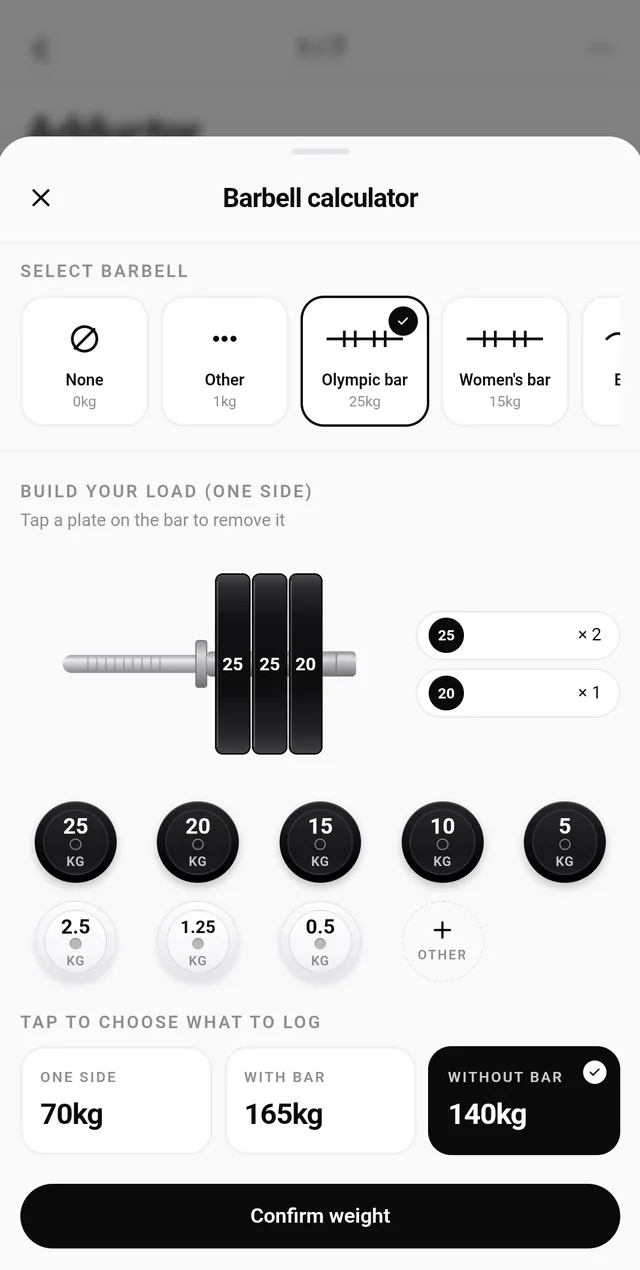
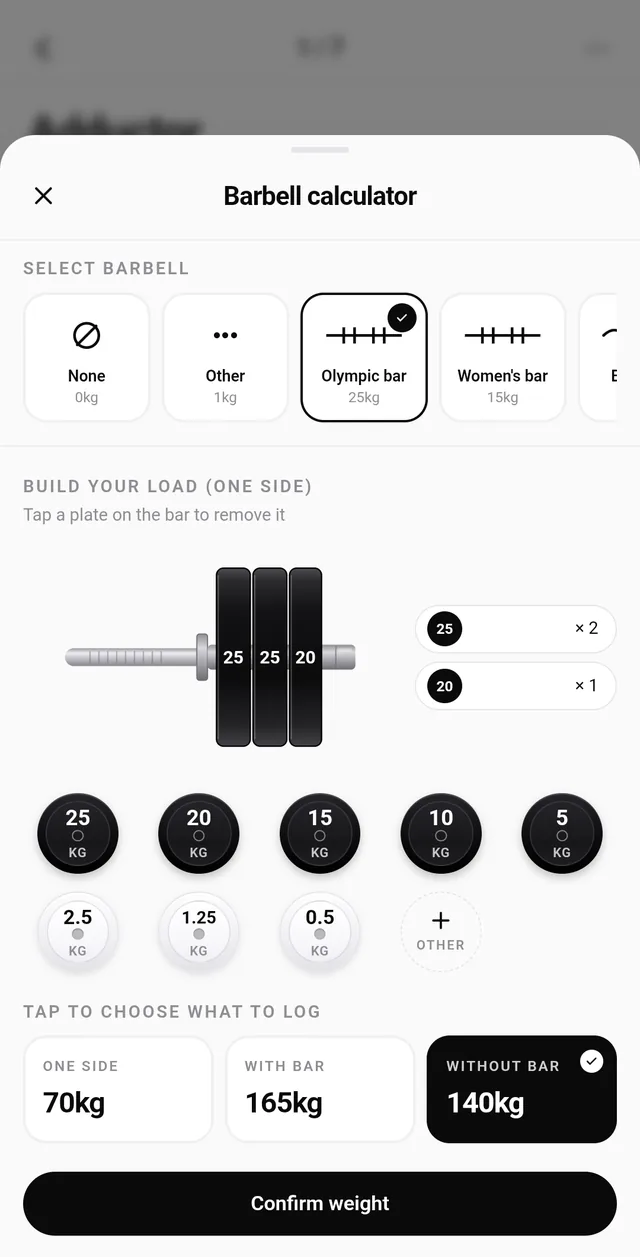
Reps reels: Pixel 10 Pro XL frame, screens shown in full
The iPhone frame's 19.5:9 screen cropped the bottom of every Pixel
screenshot, so tab bars and buttons were cut off. The CSS phone is now a
Pixel 10 Pro XL: 20:9 screen, punch-hole camera, gesture bar. Every
screen is re-cut at full height (1:1.965, nothing trimmed) and the
status and gesture bars take the screen's top and bottom colours, so a
dark hero over a light list reads right.

Claude-Session: https://claude.ai/code/session_01GgzNiRW7Ja5QXosiiVnhfS

diff --git a/.eleventy.js b/.eleventy.js
@@ -132,31 +132,36 @@ module.exports = function (eleventyConfig) {
 </section>`;
   });
 
-  // A phone in a reel. The frame, status bar and dynamic island are CSS, so
-  // the image is just the screen (cut at 1:1.985, under the status bar).
-  // Pass the screen's top colour as bg so the status bar matches it.
+  // A phone in a reel (a Pixel 10 Pro XL). The frame, status bar, camera and
+  // gesture bar are CSS, so the image is just the screen content: a 1080×2404
+  // Pixel screenshot with its own bars cropped off (1:1.965). Pass the
+  // screen's top colour as bg and, if different, its bottom colour as
+  // bottomBg so the status and gesture bars match.
   const phoneStatusGlyphs = `<svg viewBox="0 0 60 12" fill="currentColor" aria-hidden="true"><rect x="0" y="8" width="3" height="4" rx=".7"/><rect x="4.5" y="6" width="3" height="6" rx=".7"/><rect x="9" y="3.5" width="3" height="8.5" rx=".7"/><rect x="13.5" y="1" width="3" height="11" rx=".7"/><path d="M24 4.6a9 9 0 0 1 12 0l-1.5 1.7a6.8 6.8 0 0 0-9 0z"/><path d="M26.7 7.4a5.2 5.2 0 0 1 6.6 0L30 11z"/><rect x="42" y="1.5" width="15" height="9" rx="2.5" fill="none" stroke="currentColor" stroke-opacity=".45"/><rect x="43.5" y="3" width="12" height="6" rx="1.5"/><rect x="58.2" y="4.3" width="1.3" height="3.4" rx=".6" opacity=".45"/></svg>`;
-  // Status bar colours: the screen's top colour as background, white text on
-  // a dark one so "9:41" stays readable.
-  const phoneStyle = (bg) => {
-    if (!bg) return "";
-    const m = /^#([0-9a-f]{6})$/i.exec(bg.trim());
-    let dark = false;
-    if (m) {
-      const n = parseInt(m[1], 16);
-      const lum = (0.2126 * (n >> 16) + 0.7152 * ((n >> 8) & 255) + 0.0722 * (n & 255)) / 255;
-      dark = lum < 0.45;
-    }
-    return ` style="--sbg:${bg}${dark ? ";--sfg:#fff" : ""}"`;
+  // Status bar and gesture bar colours: the screen's top colour behind the
+  // status bar, its bottom colour behind the gesture bar, white text on dark.
+  const isDark = (hex) => {
+    const m = /^#([0-9a-f]{6})$/i.exec((hex || "").trim());
+    if (!m) return false;
+    const n = parseInt(m[1], 16);
+    return (0.2126 * (n >> 16) + 0.7152 * ((n >> 8) & 255) + 0.0722 * (n & 255)) / 255 < 0.45;
   };
-  eleventyConfig.addShortcode("reel_phone", function (src, alt, caption, bg) {
-    const style = phoneStyle(bg);
+  const phoneStyle = (bg, bottomBg) => {
+    const parts = [];
+    if (bg) { parts.push(`--sbg:${bg}`); if (isDark(bg)) parts.push("--sfg:#fff"); }
+    const nbg = bottomBg || bg;
+    if (nbg) { parts.push(`--nbg:${nbg}`); if (isDark(nbg)) parts.push("--nfg:#fff"); }
+    return parts.length ? ` style="${parts.join(";")}"` : "";
+  };
+  eleventyConfig.addShortcode("reel_phone", function (src, alt, caption, bg, bottomBg) {
+    const style = phoneStyle(bg, bottomBg);
     const cap = caption ? `\n  <figcaption class="reel__cap">${caption}</figcaption>` : "";
     return `<figure class="reel__item">
   <div class="phone"${style}>
     <div class="phone__screen">
-      <div class="phone__status" aria-hidden="true"><span>9:41</span><i class="phone__island"></i>${phoneStatusGlyphs}</div>
+      <div class="phone__status" aria-hidden="true"><span>9:41</span><i class="phone__cam"></i>${phoneStatusGlyphs}</div>
       <img src="${src}" alt="${alt}" loading="lazy" draggable="false" />
+      <i class="phone__nav" aria-hidden="true"></i>
     </div>
   </div>${cap}
 </figure>`;
@@ -165,14 +170,15 @@ module.exports = function (eleventyConfig) {
   // A phone in a reel playing a short clip (a screen recording with the
   // device's own bars cropped off). Muted, looping; JS plays it only while
   // it's on screen so the file never downloads for a reel nobody reaches.
-  eleventyConfig.addShortcode("reel_video", function (src, poster, alt, caption, bg) {
-    const style = phoneStyle(bg);
+  eleventyConfig.addShortcode("reel_video", function (src, poster, alt, caption, bg, bottomBg) {
+    const style = phoneStyle(bg, bottomBg);
     const cap = caption ? `\n  <figcaption class="reel__cap">${caption}</figcaption>` : "";
     return `<figure class="reel__item">
   <div class="phone"${style}>
     <div class="phone__screen">
-      <div class="phone__status" aria-hidden="true"><span>9:41</span><i class="phone__island"></i>${phoneStatusGlyphs}</div>
+      <div class="phone__status" aria-hidden="true"><span>9:41</span><i class="phone__cam"></i>${phoneStatusGlyphs}</div>
       <video class="phone__video" data-src="${src}" poster="${poster}" muted loop playsinline preload="none" aria-label="${alt}"></video>
+      <i class="phone__nav" aria-hidden="true"></i>
     </div>
   </div>${cap}
 </figure>`;

diff --git a/CLAUDE.md b/CLAUDE.md
@@ -118,7 +118,7 @@ All case-study pages follow the same shape — copy `skatefarm.html` or `reps.ht
 6. `<section class="next">` — "Next project" CTA
 7. `<footer class="terms-footer">` — small © + back-to-top row
 
-**Reels (Reps, #92).** Phone and card carousels in the style of kester.work/work/streaks: `{% reel "label" %}…{% endreel %}` with `{% reel_phone src, alt, caption, bg %}` or `{% reel_card src, alt, caption %}` inside (`"cards"` as the reel's second arg). Styles and the drag-to-scroll JS live in `layouts/case.njk`. The iPhone frame, status bar and island are CSS, so a phone image is just the screen under the status bar, cut at **1:1.985** (the frame is 1:2.165 and the status bar takes 0.18 of the width); `bg` is the screen's top colour so the status bar matches. `{% reel_video src, poster, alt, caption, bg %}` is a phone playing a muted clip; JS attaches the src and plays it only while it's on screen. Reps' screens and the 38s walkthrough clip came from Matthew's Pixel screenshots and screen recording (1080×2404: crop y 162–2284 to drop the Android bars, then cut to ratio; the clip is h264 at 540px wide, ~0.7 MB). Keep his email and other personal details out of the frames (the Profile screen shows them, so it isn't used). A case study that drops `prev` from its front matter gets a single "Next project" block.
+**Reels (Reps, #92).** Phone and card carousels in the style of kester.work/work/streaks: `{% reel "label" %}…{% endreel %}` with `{% reel_phone src, alt, caption, bg %}` or `{% reel_card src, alt, caption %}` inside (`"cards"` as the reel's second arg). Styles and the drag-to-scroll JS live in `layouts/case.njk`. The phone is a Pixel 10 Pro XL drawn in CSS (frame, status bar with punch-hole camera, gesture bar), so a phone image is just the screen content at **1:1.965**: a 1080×2404 Pixel screenshot with its own bars cropped off (y 162–2284), nothing trimmed at the sides. An iPhone frame was tried first and cropped the bottom of every screen. `bg` is the screen's top colour (behind the status bar) and an optional fifth arg is its bottom colour (behind the gesture bar) when they differ, e.g. a dark hero over a light list. `{% reel_video src, poster, alt, caption, bg %}` is a phone playing a muted clip; JS attaches the src and plays it only while it's on screen. Reps' screens and the 38s walkthrough clip came from Matthew's Pixel screenshots and screen recording (the clip is the same crop, h264 at 540px wide, ~0.7 MB). Keep his email and other personal details out of the frames (the Profile screen shows them, so it isn't used). A case study that drops `prev` from its front matter gets a single "Next project" block.
 
 Each page has its own accent palette in `:root` (`--accent`, `--accent-2`). Otherwise the CSS is mostly identical between pages.
 
